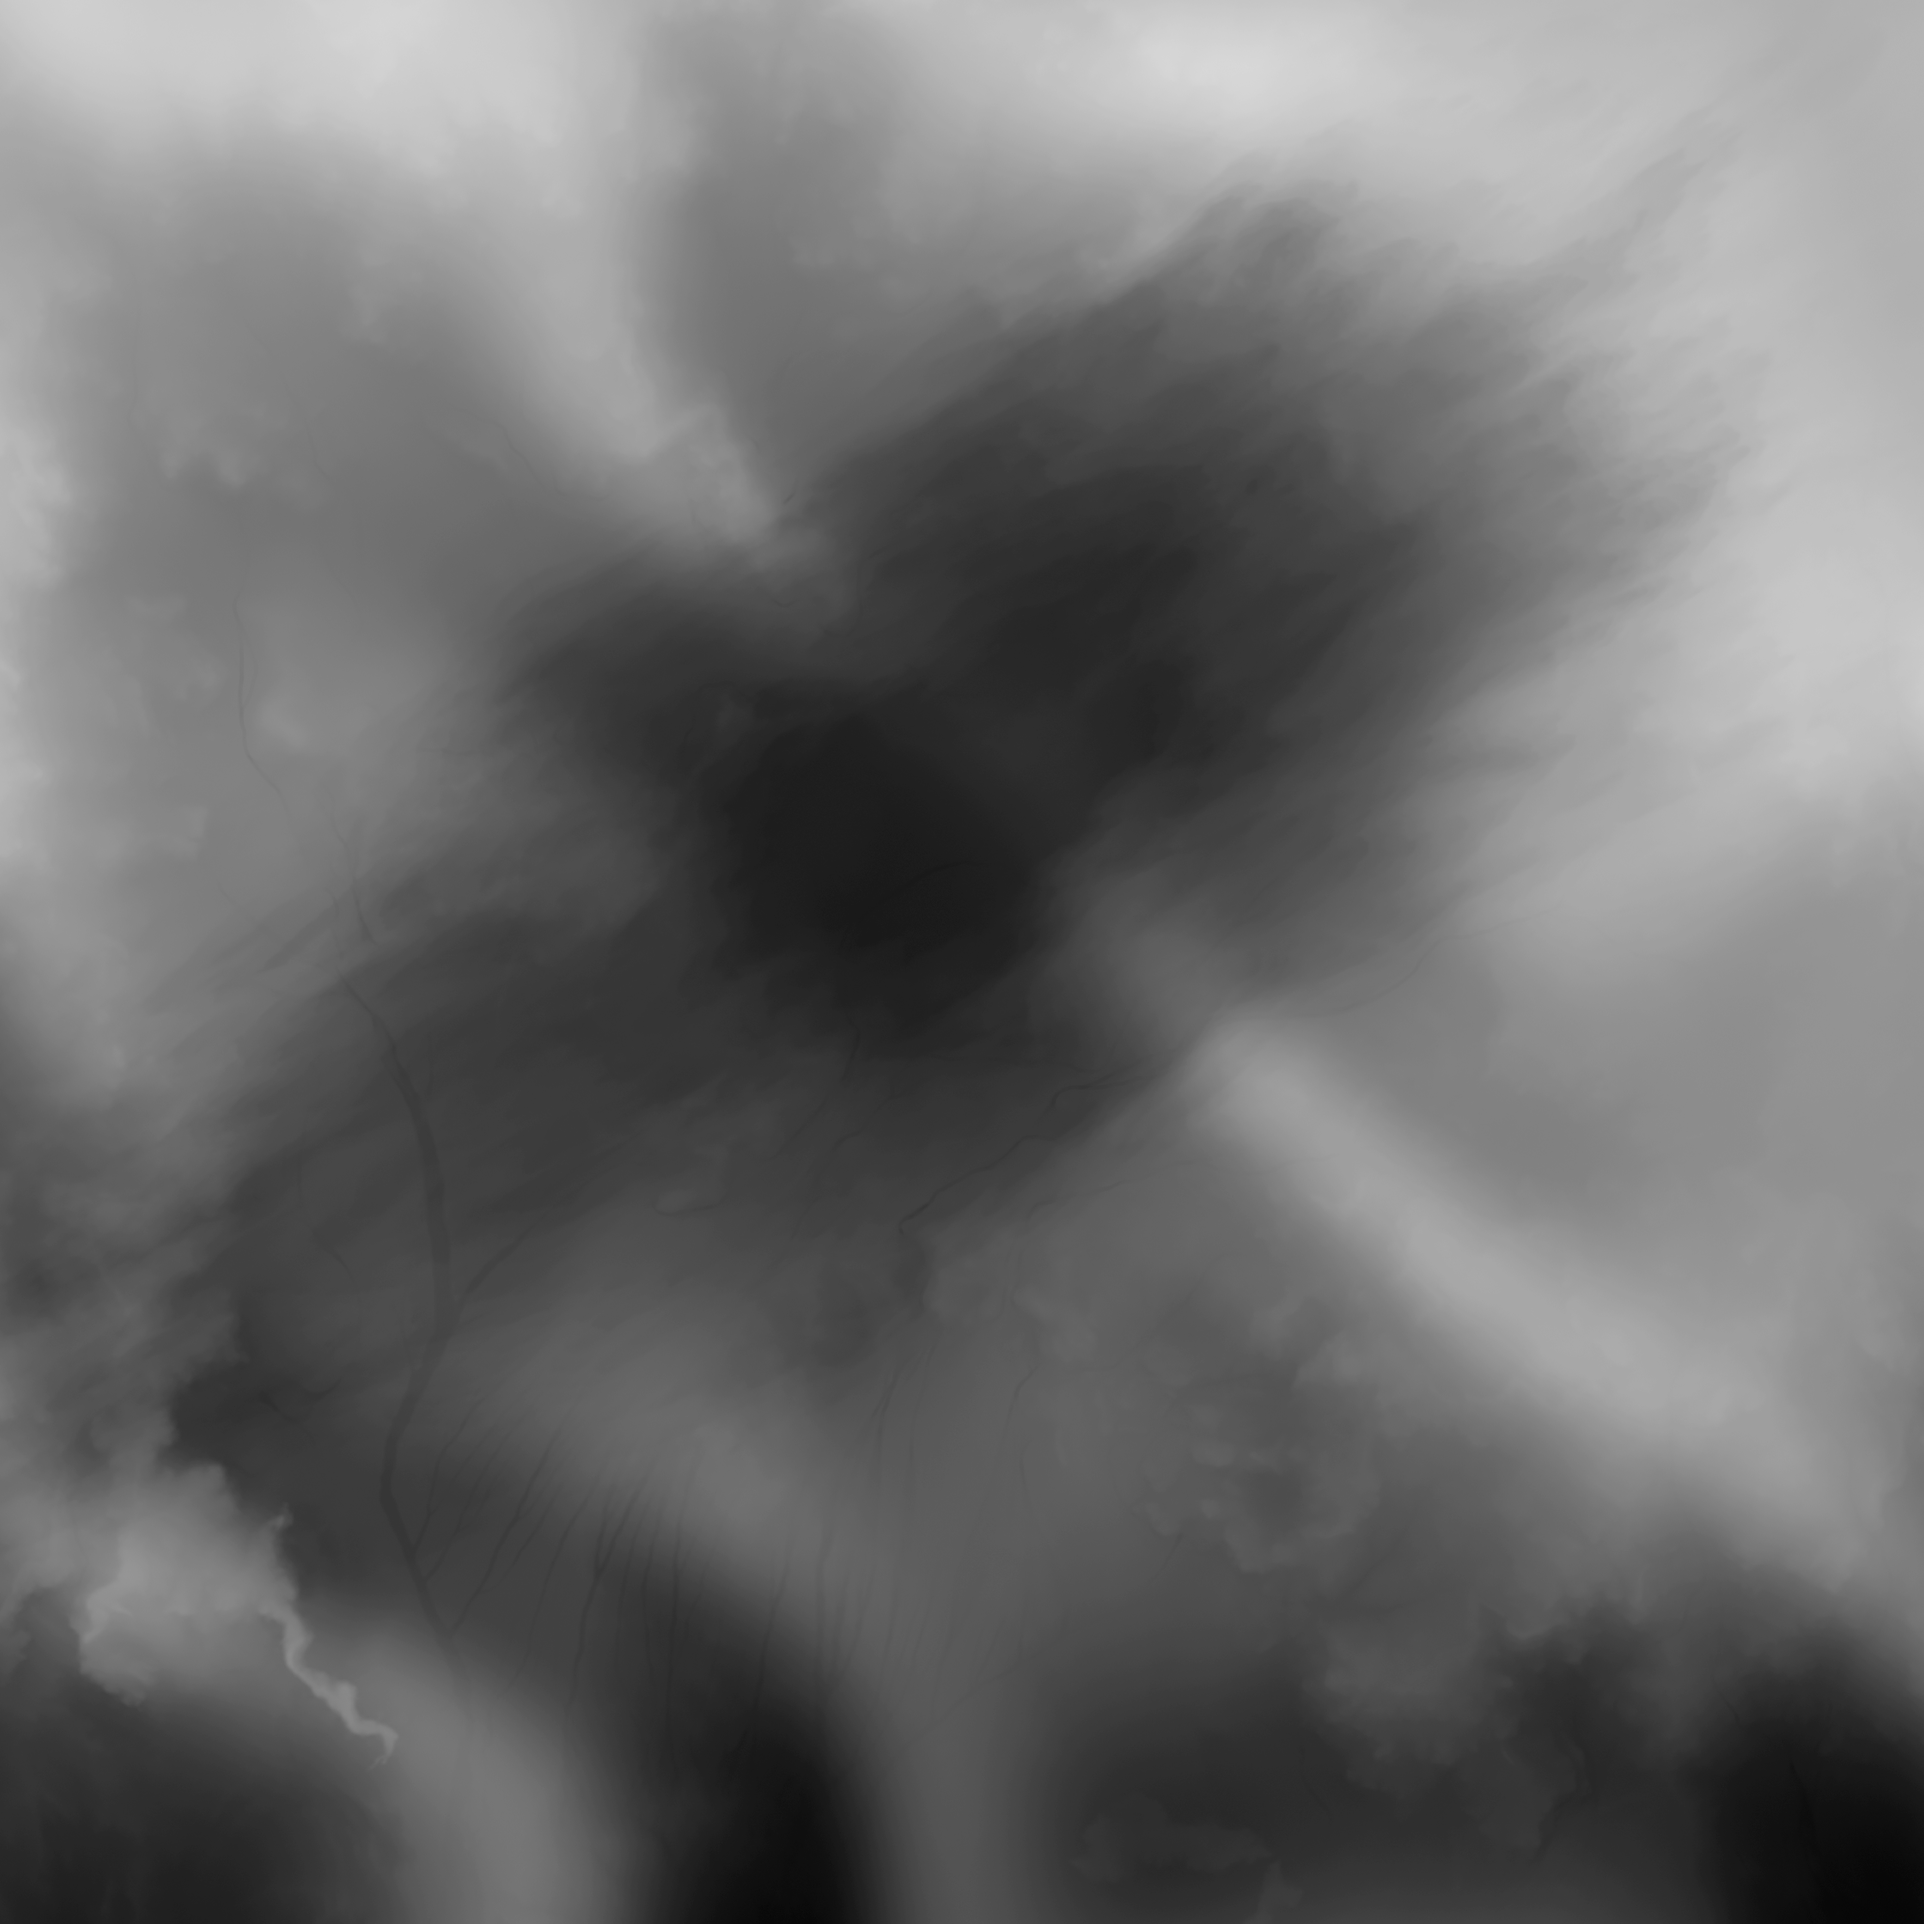
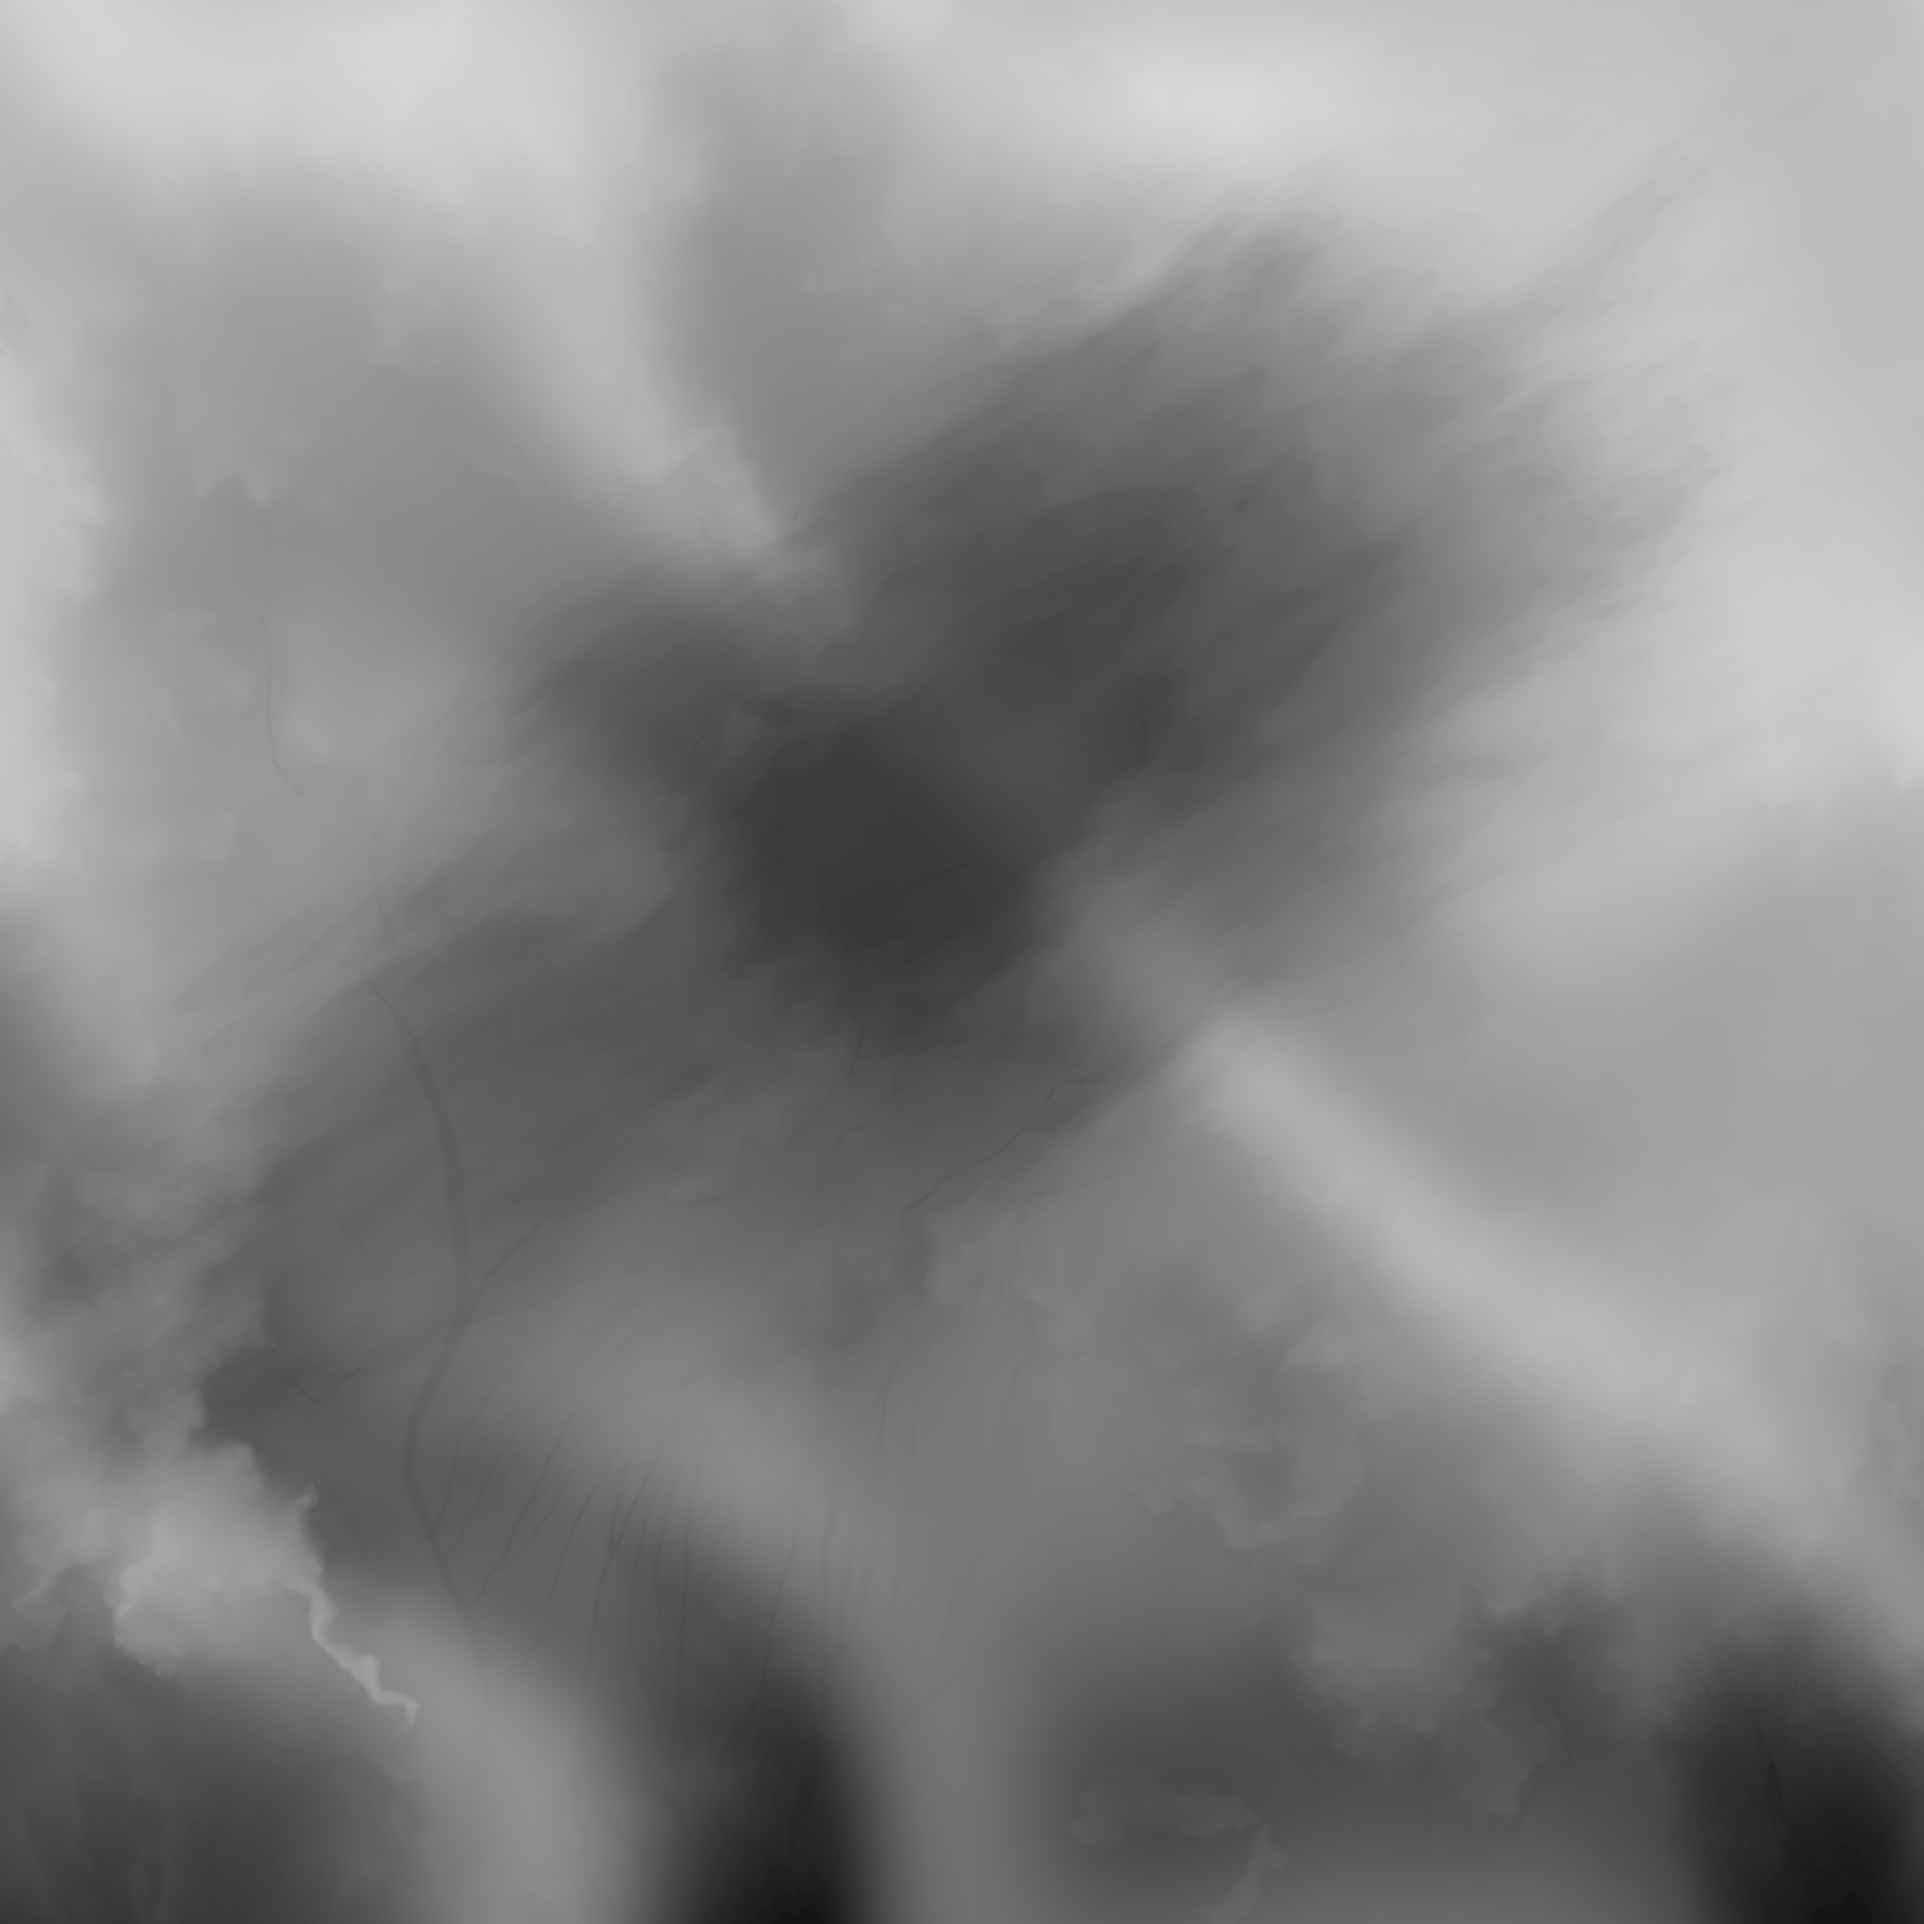
Use bilinear subsampled heightmap for smoother results

diff --git a/src/components/materials/terrainMaterial.ts b/src/components/materials/terrainMaterial.ts
@@ -33,6 +33,9 @@ export default class TerrainMaterial extends Material {
     this.heightmap = GL.createTexture();
     GL.bindTexture(GL.TEXTURE_2D, this.heightmap);
 
+    GL.texParameteri(GL.TEXTURE_2D, GL.TEXTURE_MIN_FILTER, GL.LINEAR);
+    GL.texParameteri(GL.TEXTURE_2D, GL.TEXTURE_MAG_FILTER, GL.LINEAR);
+    
     // ToDo(Eric) Manage texture level / position!
     GL.texImage2D(GL.TEXTURE_2D, 0, GL.RGBA, 1, 1, 0, GL.RGBA, GL.UNSIGNED_BYTE,
                             new Uint8Array([0, 0, 255, 255]));
@@ -43,7 +46,6 @@ export default class TerrainMaterial extends Material {
     image.addEventListener('load', () => {
       GL.bindTexture(GL.TEXTURE_2D, this.heightmap);
       GL.texImage2D(GL.TEXTURE_2D, 0, GL.RGBA, GL.RGBA, GL.UNSIGNED_BYTE, image);
-      GL.generateMipmap(GL.TEXTURE_2D);
     });
   }
 

diff --git a/src/components/terrain.ts b/src/components/terrain.ts
@@ -9,7 +9,7 @@ import TerrainMaterial from "./materials/terrainMaterial";
 import UnlitMaterial from "./materials/unlitMaterial";
 import Transform from "./transform";
 
-const TERRAIN_HEIGHTMAP_URI: string = "/res/map/heightmapCompressed.png"
+const TERRAIN_HEIGHTMAP_URI: string = "/res/map/heightmap.png"
 
 // these settings are also related to the heightmap resolution
 // going to high with a low heightmap makes not much sense
